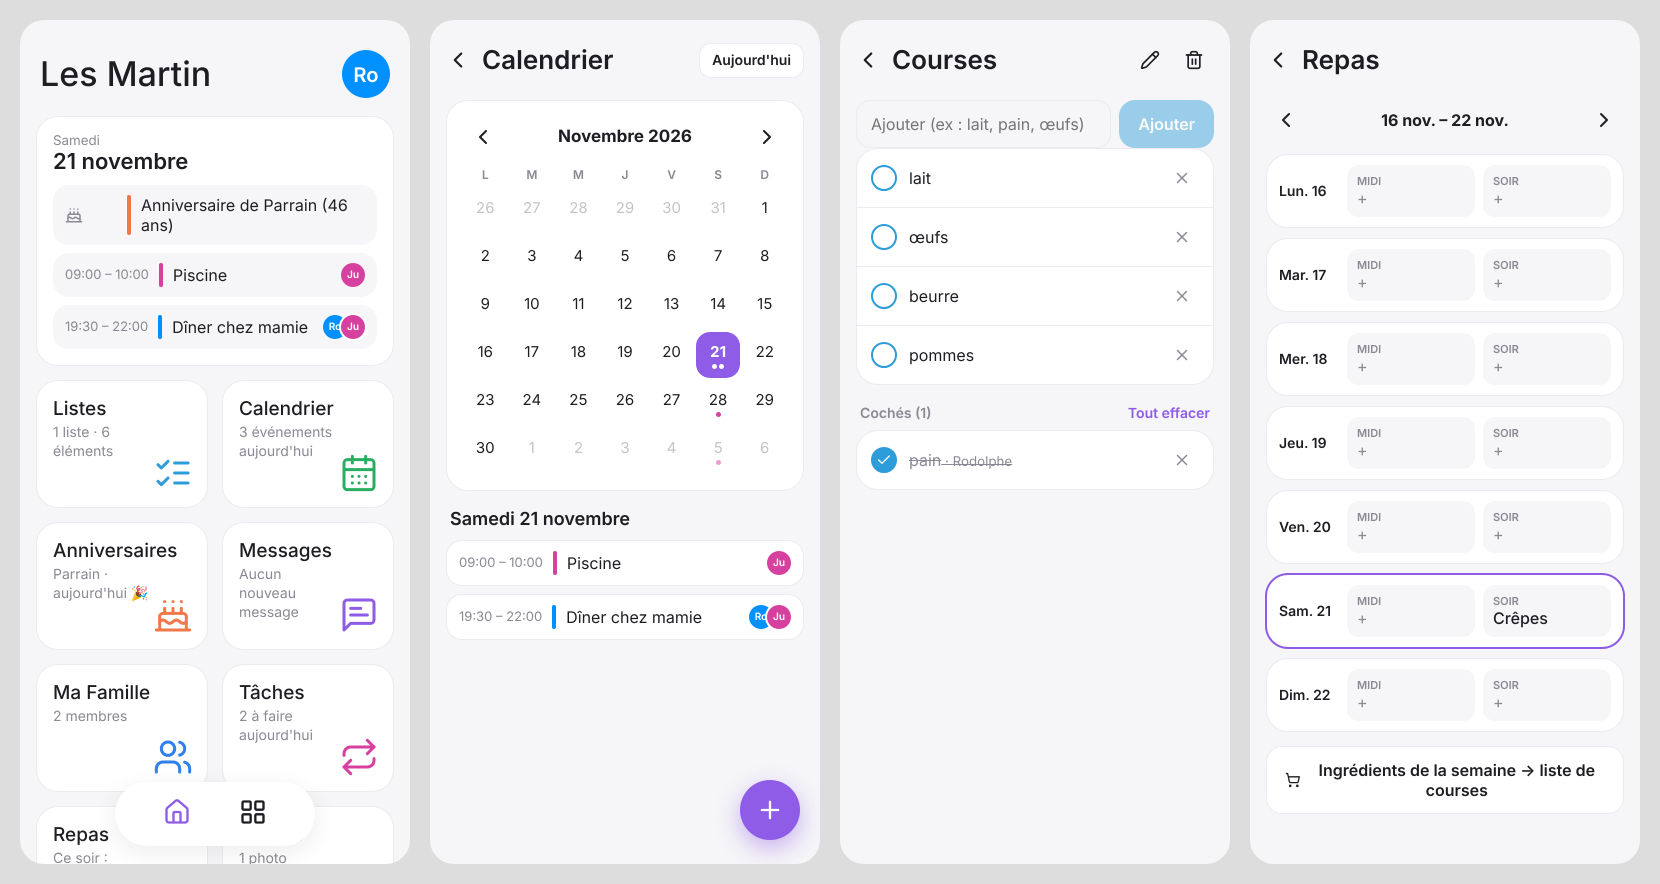
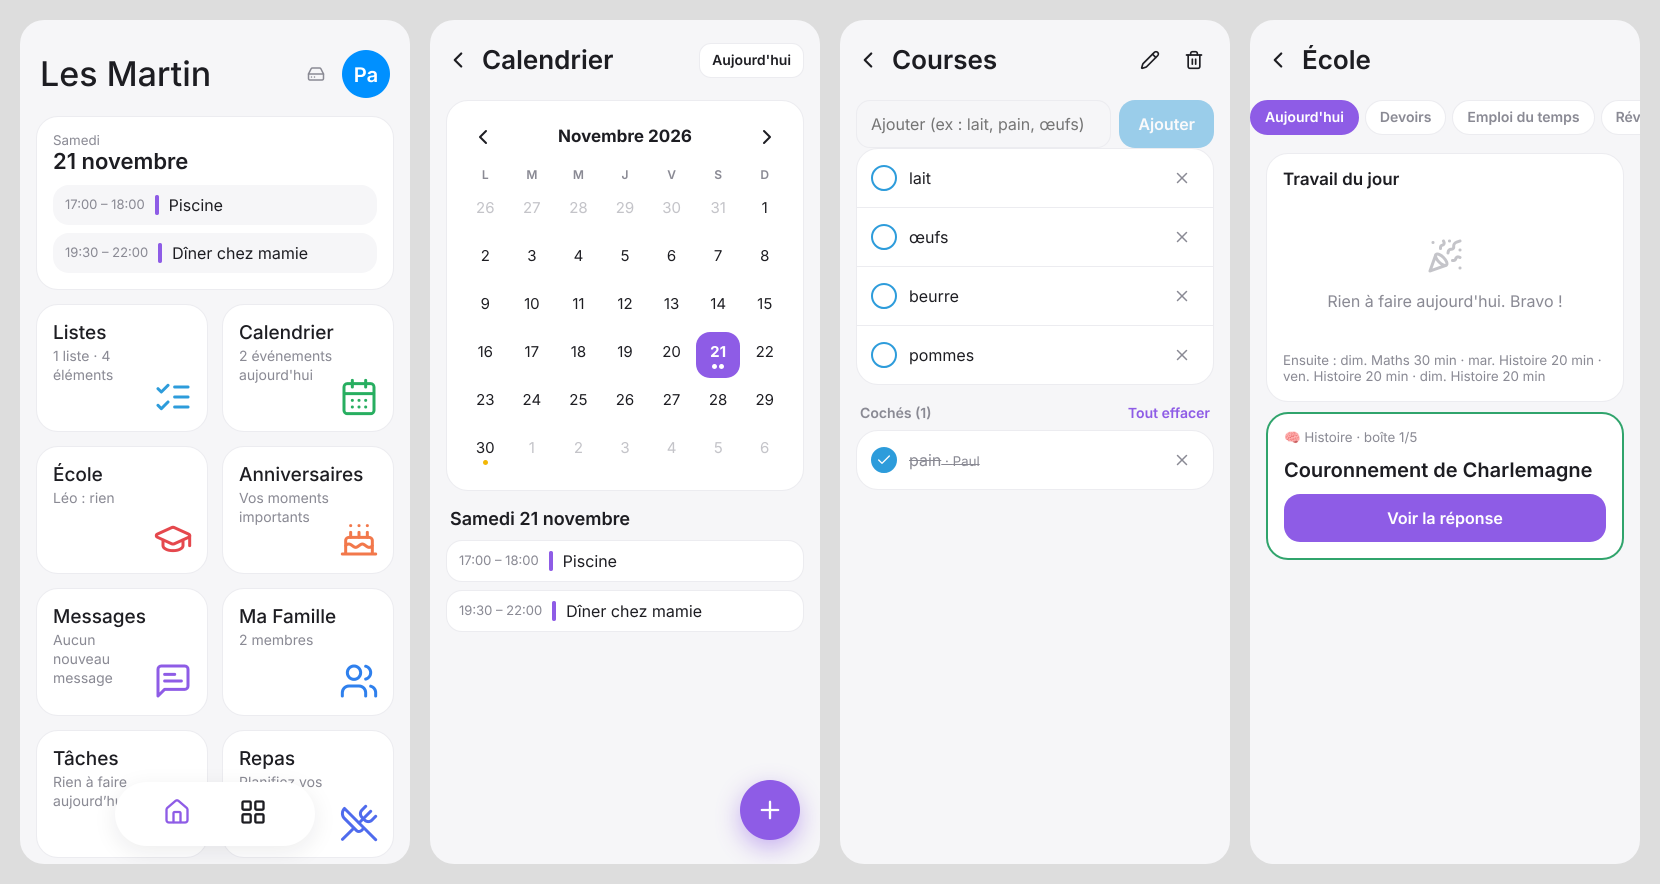
Docs : capture et exemples avec des prénoms fictifs
La capture de présentation et un exemple de la doc utilisaient un vrai
prénom comme donnée de test. Nouvelle capture (accueil, calendrier,
liste, espace École) avec des données fictives.

Claude-Session: https://claude.ai/code/session_018sTTbTvDcMCqCTwZ2EyJ8K

diff --git a/docs/ARCHITECTURE.md b/docs/ARCHITECTURE.md
@@ -135,7 +135,7 @@ avec la clé du cercle.
 
 - Chaque modification est une **opération** : document, champs modifiés, horloge logique hybride (HLC).
 - **Fusion champ par champ, la plus récente gagne** (CRDT « last-writer-wins »). Si Julie coche « lait » pendant que
-  Rodolphe renomme ce même article, les deux modifications sont conservées.
+  Paul renomme ce même article, les deux modifications sont conservées.
 - Deux appareils qui reçoivent les mêmes opérations, **dans n'importe quel ordre**, aboutissent au même état. C'est
   vérifié par les tests, y compris quand l'horloge d'un téléphone retarde.
 - Les opérations faites hors ligne attendent dans une file locale persistante (`outbox`) et partent au retour du
